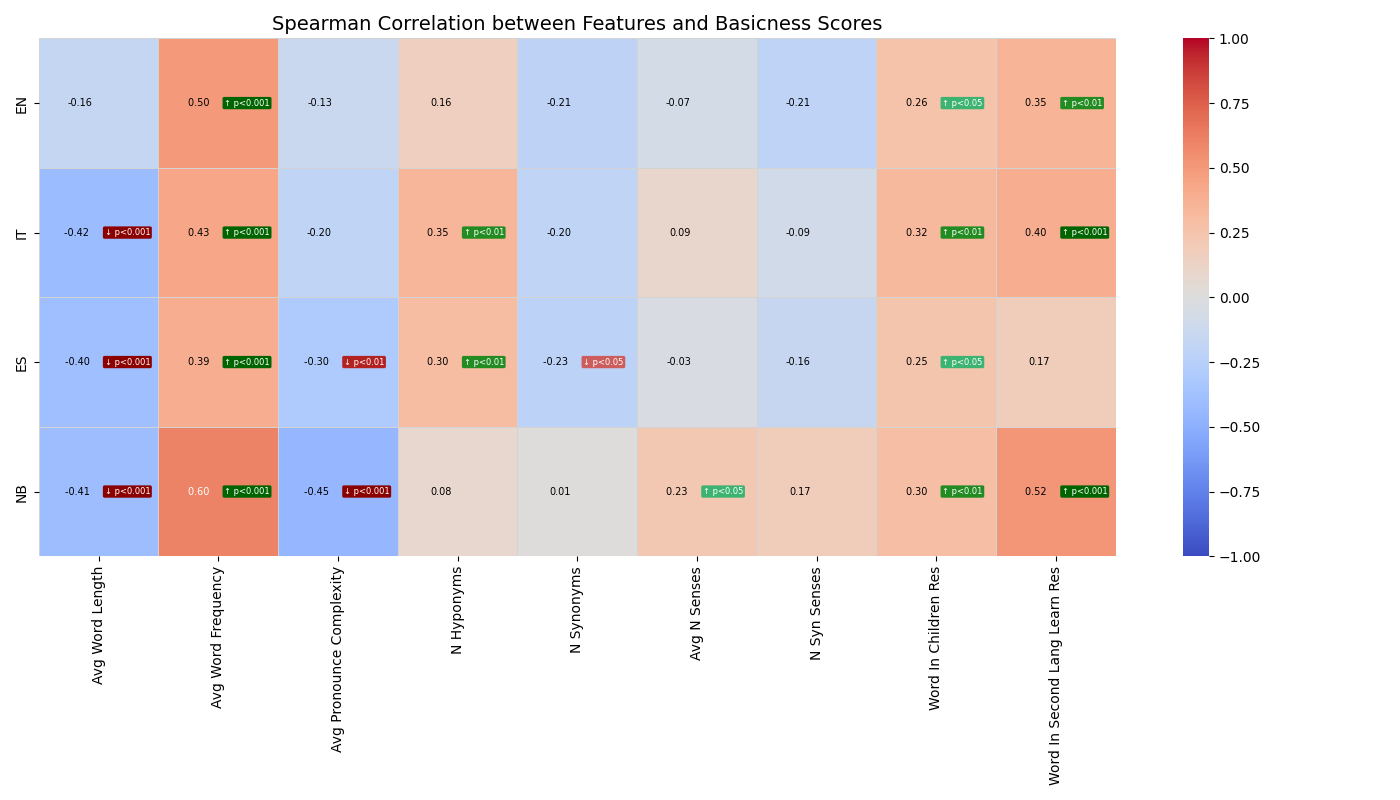
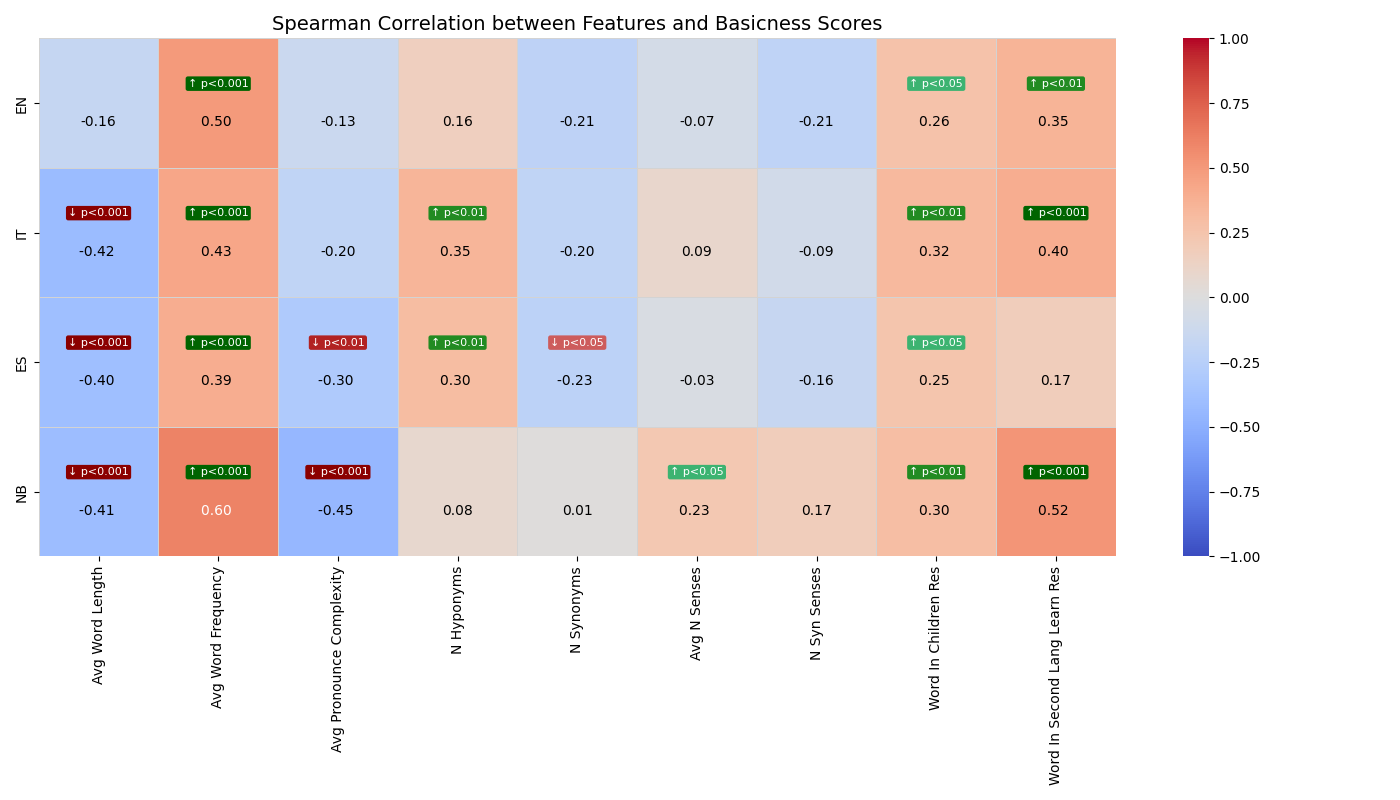
fix: adjust text positioning and font sizes in correlation plots for better readability

diff --git a/src/analysis/correlation.py b/src/analysis/correlation.py
@@ -351,28 +351,27 @@ def calculate_correlations(filter_by_relevant_lang=True):
                                 base_text += " "  # Add space before pill
 
                 # --- Draw the text elements --- >
-                # Use text alignment to place base text and pill text side-by-side
-                # Place base text slightly left
+                # Place base text slightly above center
                 ax.text(
-                    j + 0.45,
-                    i + 0.5,
+                    j + 0.5,  # Center horizontally
+                    i + 0.65,  # Position slightly above vertical center
                     base_text,
-                    ha="right",
-                    va="center",
+                    ha="center",  # Center align horizontally
+                    va="center",  # Vertically align relative to its position
                     color=text_color,
-                    fontsize=7,
+                    fontsize=10,
                 )
 
-                # If there's a pill, draw it slightly right with background
+                # If there's a pill, draw it below the base text
                 if pill_text:
                     ax.text(
-                        j + 0.55,
-                        i + 0.5,
+                        j + 0.5,  # Center horizontally
+                        i + 0.35,  # Position slightly below vertical center
                         pill_text,
-                        ha="left",
-                        va="center",
+                        ha="center",  # Center align horizontally
+                        va="center",  # Vertically align relative to its position
                         color="white",
-                        fontsize=6,
+                        fontsize=8,
                         bbox=dict(
                             boxstyle="round,pad=0.2",
                             facecolor=pill_color,
